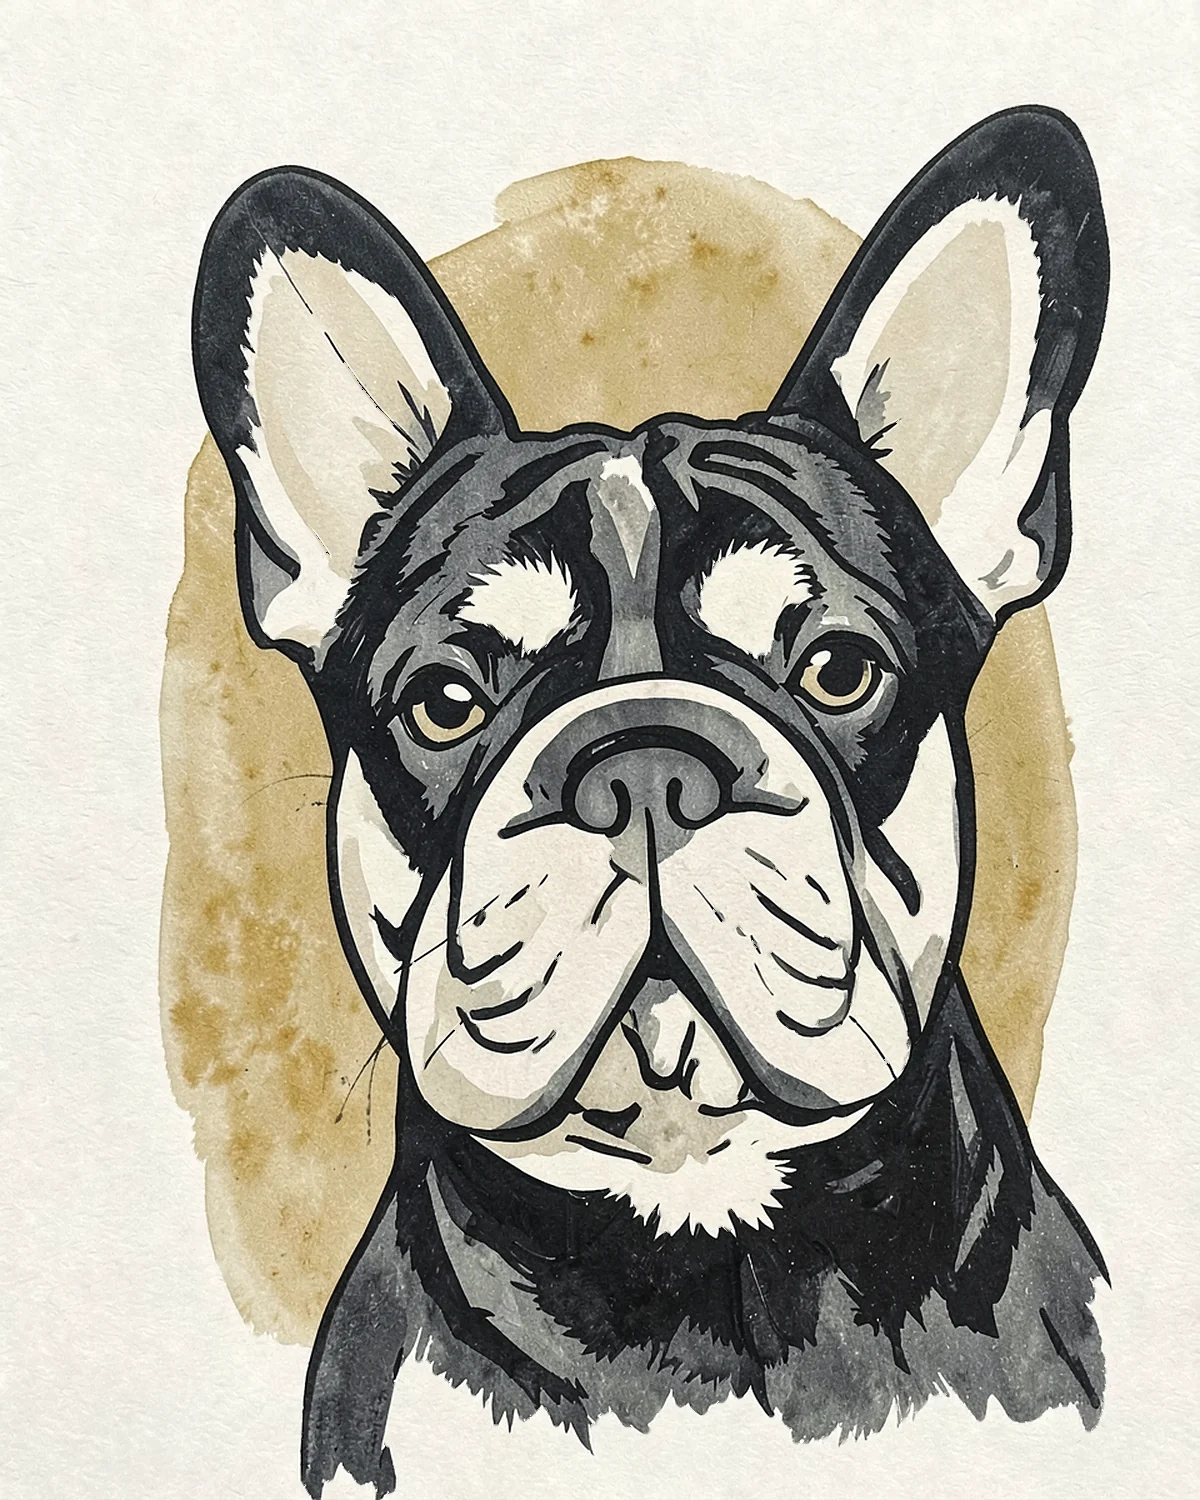
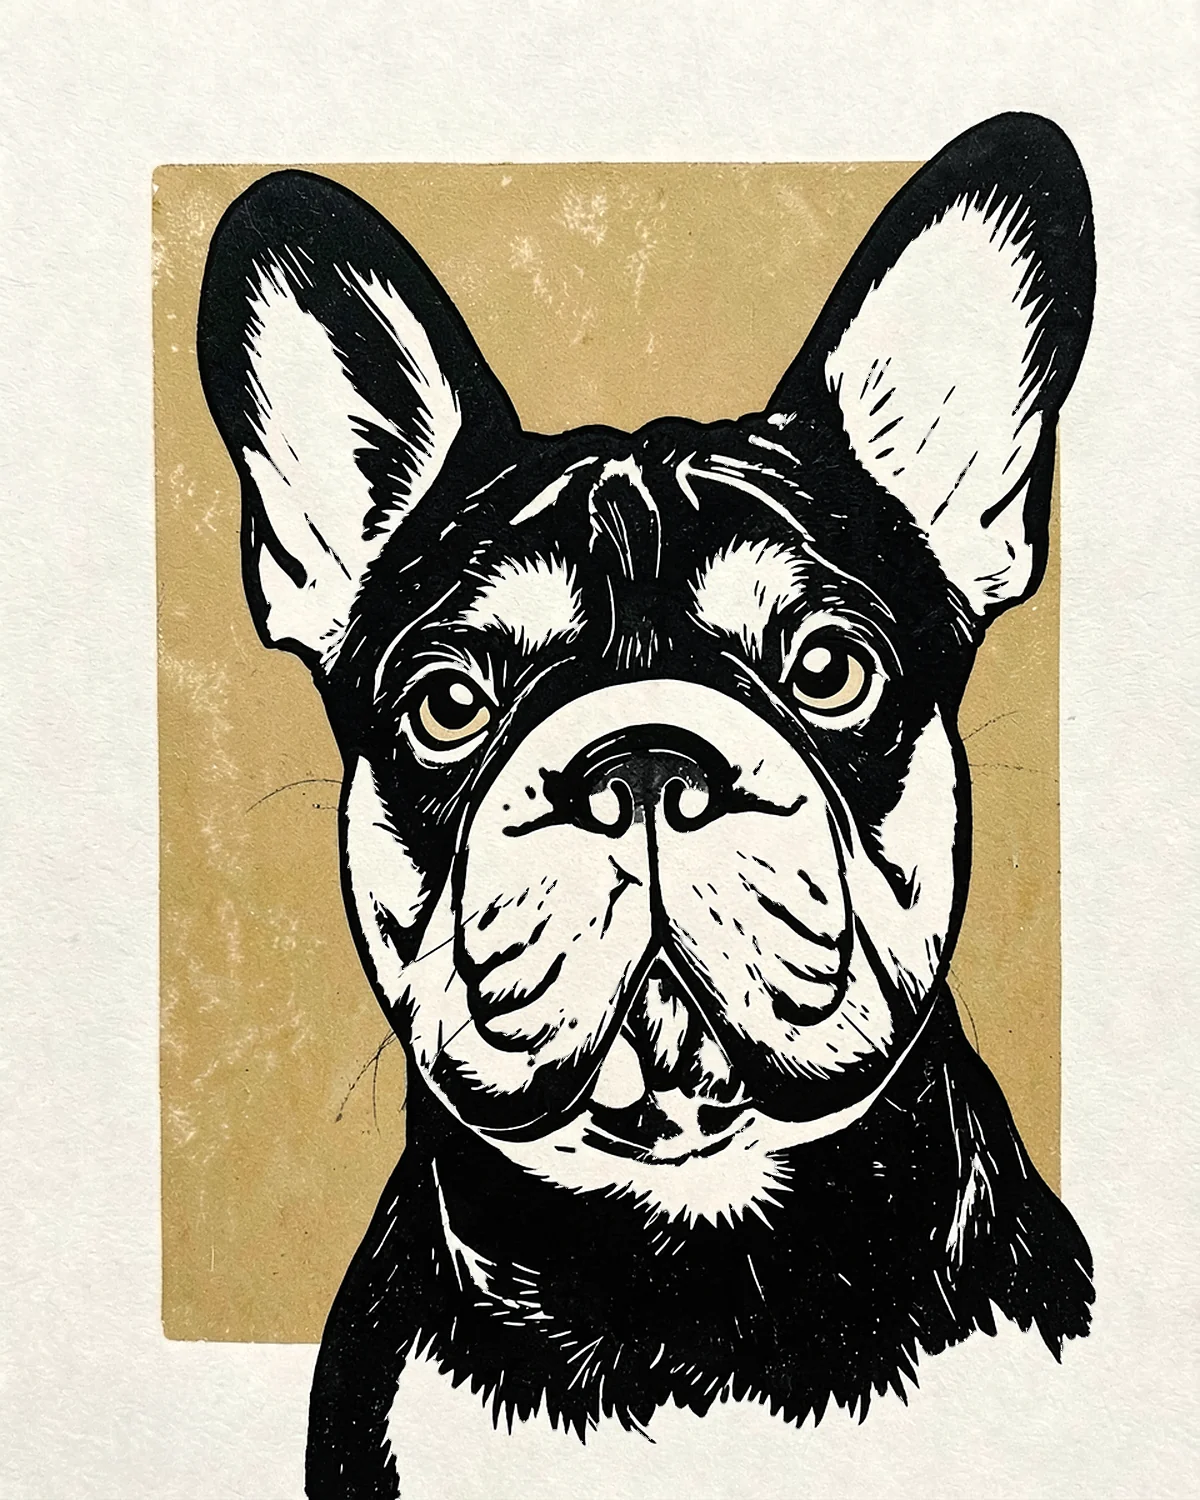
Linocut v2: true two-block relief print for linocut.webp and gallery-2, gallery wall updated, art direction carries the final linocut prompt
Claude-Session: https://claude.ai/code/session_01Q1G9K9iUNWePoTgYQBX8an

diff --git a/docs/art-direction.md b/docs/art-direction.md
@@ -123,10 +123,11 @@ Turn this photo into a contemporary palette-knife oil portrait of this exact {br
 ### Linocut
 
 Used for: linocut.webp (Husky, second ink "muted sage green"), gallery-2.webp (French Bulldog, second ink "muted ochre").
-`{field}` is the second ink: "muted ochre" (production default), "muted sage green", "muted slate blue" or "muted oxblood".
+The second ink is printed as one flat block behind the dog; the dog itself is black on bare paper, so coat colour is carried by shape, not hue.
+`{field}` (it appears twice) is the second ink: "muted ochre" (production default), "muted sage green", "muted slate blue" or "muted oxblood".
 
 ```text
-Turn this photo into a hand-carved linocut relief print of this exact {breed}, printed by hand in two inks, a soft charcoal black and one {field}, on cream cotton printmaking paper. Keep this exact dog from the photo: the same face, eye colour, nose, muzzle, ear shape, fur length, fur colours and markings, so the owner instantly recognises their own dog. Natural canine anatomy and proportions, two eyes. Head and chest only. Bold simplified shapes cut with a gouge: the fur is described by carved lines and tapering V-shaped cuts that follow the direction of the hair, solid black shapes for the darkest fur and bare cream paper for the lightest fur. The second ink is a single flat shape behind the dog. Slightly uneven hand-rolled ink with a dry, mottled texture, a few stray carving marks left in the cleared areas, a slight misregistration between the two inks. Empty cream paper around the print. No grey tones, no gradients, no shading. Composition: the whole head and both ears sit comfortably inside the picture with a calm margin of background above the ears and at both sides, the eyes near the upper third. Like a limited-edition relief print from a small printmaker's studio. The artwork fills the entire image edge to edge. No text, no letters, no numbers, no signature, no monogram, no watermark, no frame, no border.
+Turn this photo into a hand-carved linocut relief print of this exact {breed}, printed by hand from two carved linoleum blocks on cream cotton printmaking paper: first one flat block of {field}, then the key block in dense black relief ink. Keep this exact dog from the photo: the same face, eye colour, nose, muzzle, ear shape, fur length, fur colours and markings, so the owner instantly recognises their own dog. Natural canine anatomy and proportions, two eyes. Head and chest only. Every mark is either solid opaque black ink or bare paper: the dark fur is solid black with thin white lines carved out of it, the light fur is bare cream paper with short black gouge cuts, and the fur is described by tapering V-shaped cuts that follow the direction of the hair. Bold simplified shapes with slightly rough, hand-cut edges. The {field} ink is one flat rectangular block behind the dog, with the same dry, slightly mottled hand-rolled texture as the black. A few stray chatter marks left by the gouge in the cleared areas, a slight misregistration between the two blocks. Empty cream paper around the print. No grey tones, no washes, no gradients, no pen lines, no watercolour. Composition: the whole head and both ears sit comfortably inside the picture with a calm margin of background above the ears and at both sides, the eyes near the upper third. Like a limited-edition relief print from a small printmaker's studio. The artwork fills the entire image edge to edge. No text, no letters, no numbers, no signature, no monogram, no watermark, no frame, no border.
 ```
 
 ### Pastel
